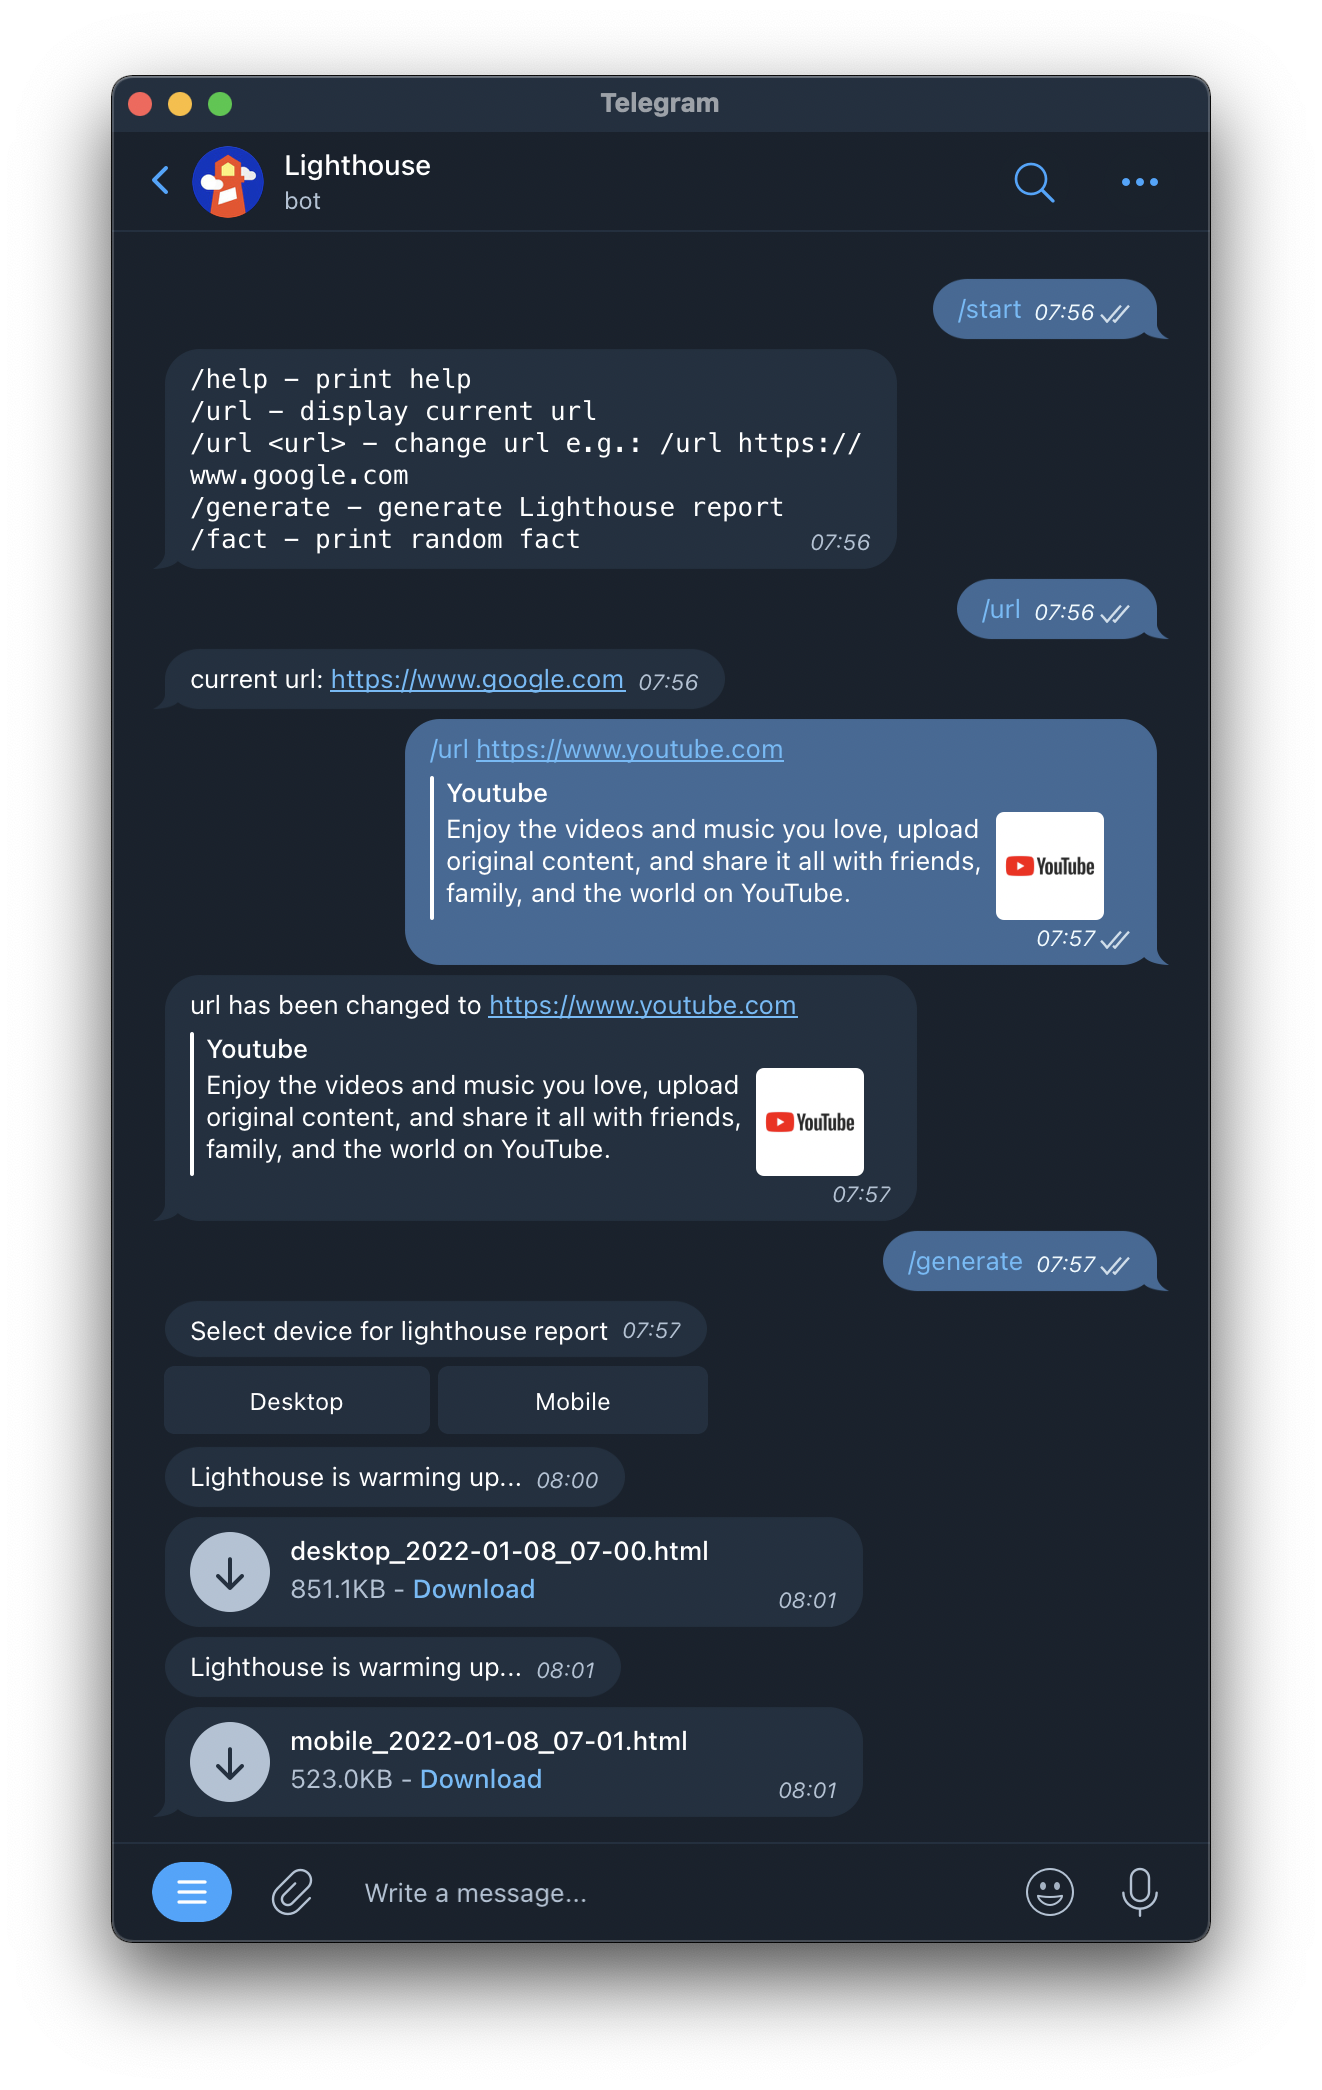
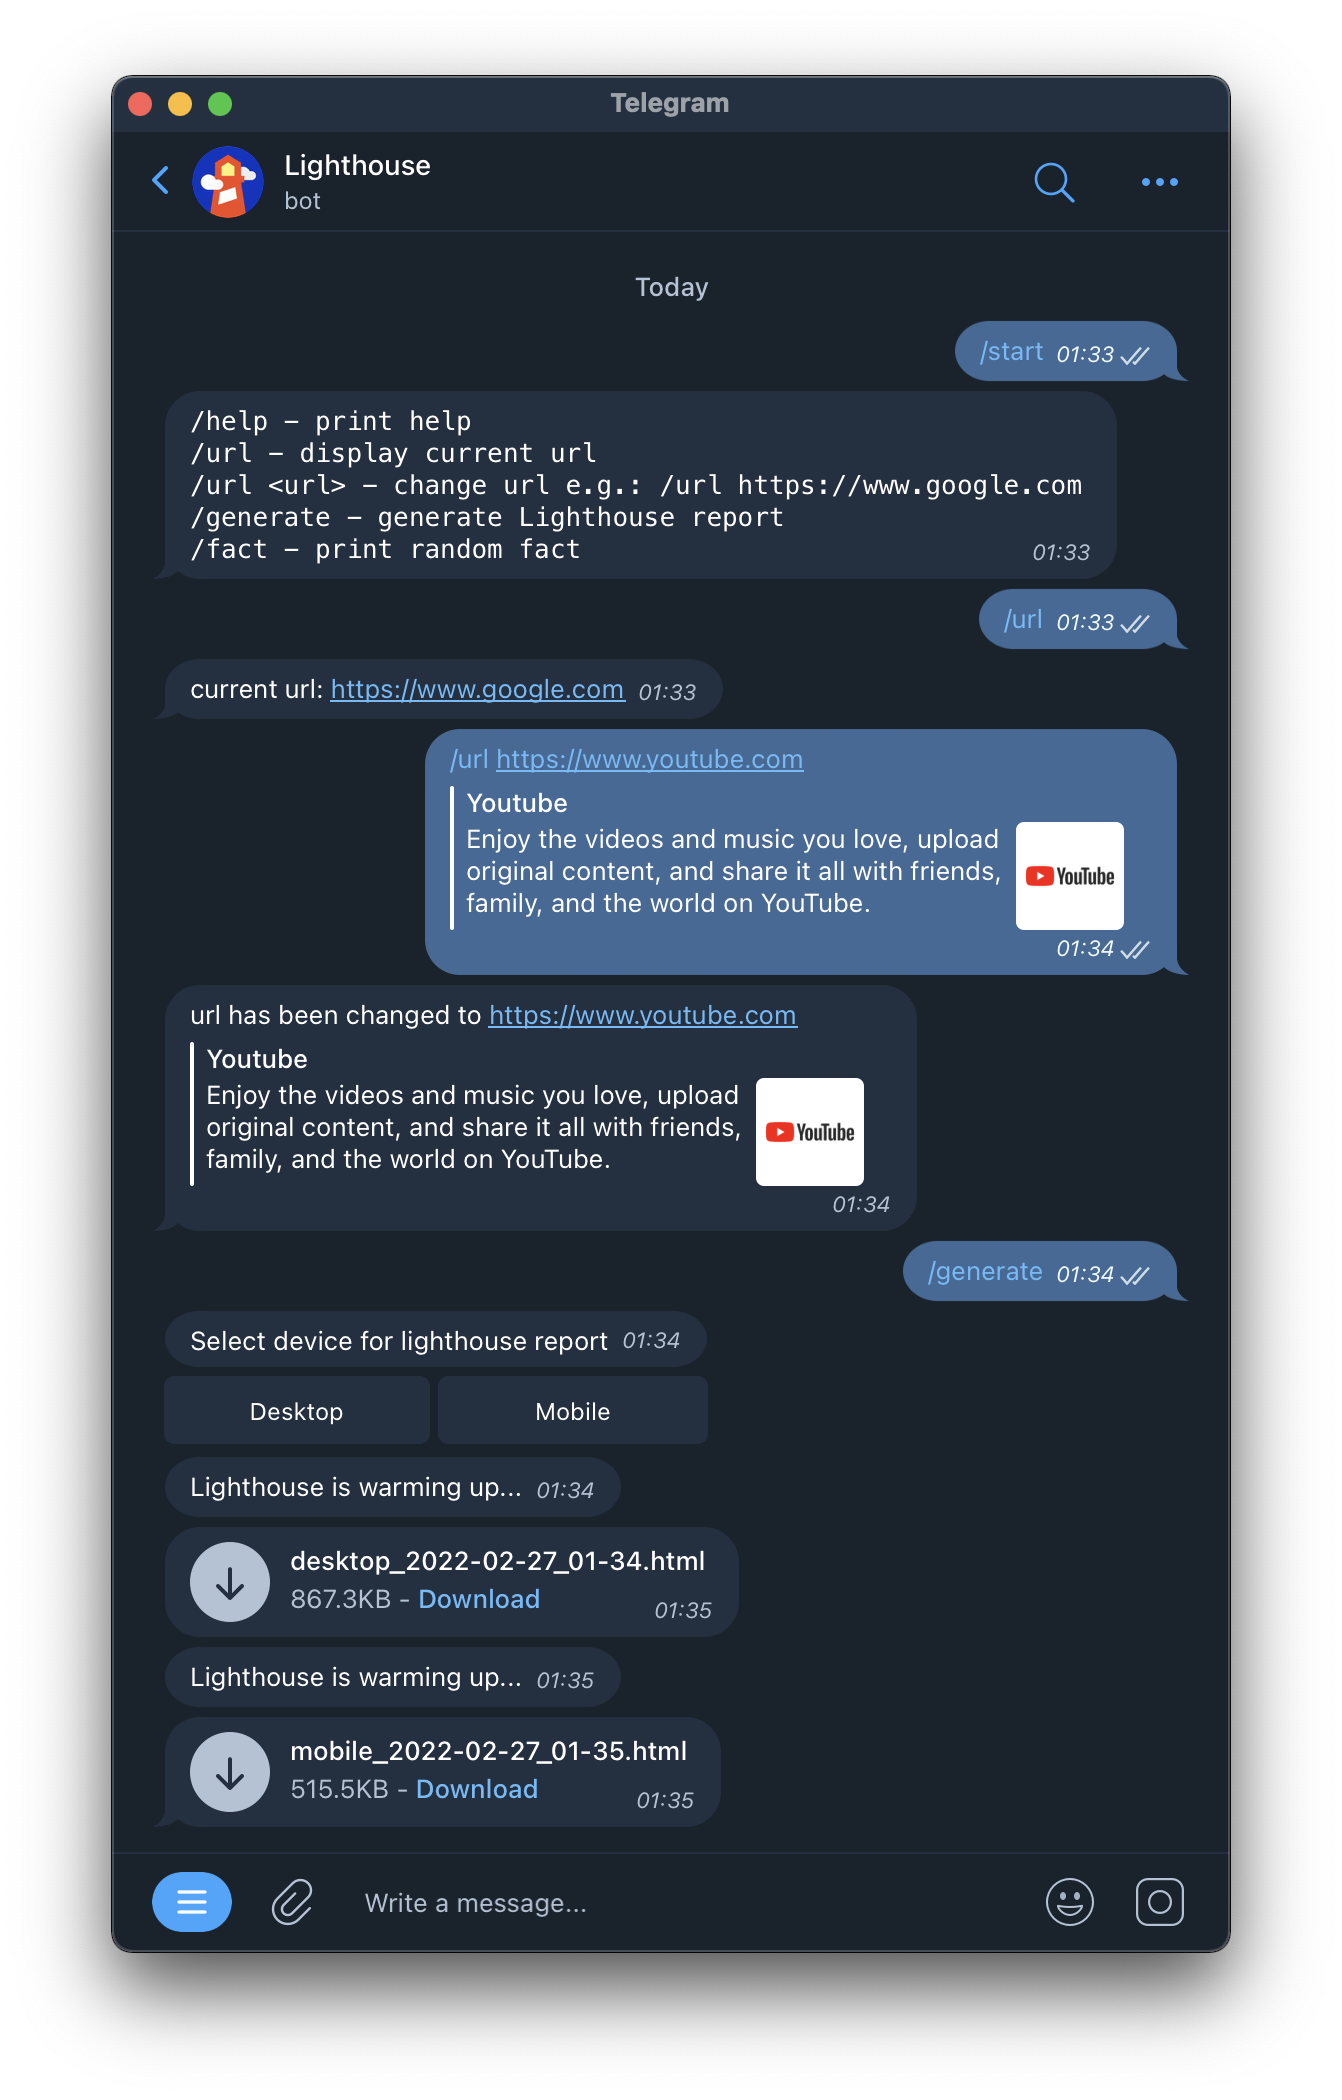
add automatic add new user and whitelist

diff --git a/index.js b/index.js
@@ -10,34 +10,39 @@ const WikiFakt = require("wikifakt");
 const puppeteer = require("puppeteer");
 const validUrl = require("valid-url");
 
-let data = fs.readJsonSync("./data.json");
-const bot = new TelegramBot(data.token, { polling: true });
+if (process.env.BOT_TOKEN === undefined)
+  throw new Error("BOT_TOKEN must be provided!");
 
-let chatId, msg, name, usrNr, date;
+const bot = new TelegramBot(process.env.BOT_TOKEN, { polling: true });
 
-bot.on("message", (apiJson) => {
-  chatId = apiJson.chat.id;
-  msg = apiJson.text;
-  name = apiJson.from.first_name;
-  usrNr = getUsrNr();
-  date = getDateTime();
-  console.log(`${date}: ${chatId} ${name}, ${usrNr}, message: '${msg}'`);
-  if (usrNr == -1) {
-    return;
-  }
+const type = { message: "message", callback: "callback" };
+
+const DATA_PATH = "data/data.json",
+  WHITELIST_PATH = "data/whitelist.json";
+
+bot.on("message", (api) => {
+  const {
+    chat: { id: chatId },
+    text: msg,
+    from: { first_name: usrName },
+  } = api;
+  const isValid = UserValid(chatId);
+  log(chatId, msg, usrName, isValid, type.message);
+  if (!isValid) return;
+
   switch (true) {
     case msg == "/help":
     case msg == "/start":
-      onHelporStart();
+      onHelporStart(chatId);
       break;
     case /\/url(.*)/.test(msg):
-      onUrl();
+      onUrl(chatId, msg);
       break;
     case msg == "/generate":
-      onGenerate();
+      onGenerate(chatId);
       break;
     case msg == "/fact":
-      onFact();
+      onFact(chatId);
       break;
     default:
       bot.sendMessage(chatId, "invalid command");
@@ -45,30 +50,83 @@ bot.on("message", (apiJson) => {
   }
 });
 
-bot.on("callback_query", (callbackQuery) => {
-  chatId = callbackQuery.from.id;
-  msg = callbackQuery.data;
-  name = callbackQuery.from.first_name;
-  usrNr = getUsrNr();
-  date = getDateTime();
-  console.log(
-    `${date}: ${chatId} ${name}, ${usrNr}, callback message: '${msg}'`
-  );
+bot.on("callback_query", (api) => {
+  const {
+    from: { id: chatId, first_name: usrName },
+    data: msg,
+  } = api;
+  const isValid = UserValid(chatId);
+  log(chatId, msg, usrName, isValid, type.callback);
+  if (!isValid) return;
 
-  if (usrNr == -1) {
-    return;
-  }
   switch (true) {
     case msg == "desktop":
     case msg == "mobile":
-      onDesktopOrMobile();
+      onDesktopOrMobile(chatId, msg);
       break;
   }
 });
 
-// on message functions
+function UserValid(chatId) {
+  try {
+    ({ chatId: whitelistedUsr } = fs.readJsonSync(WHITELIST_PATH));
 
-function onHelporStart() {
+    return whitelistedUsr.includes(chatId) ? true : false;
+  } catch {
+    console.log(
+      "no whitelist file provided or strucutre incorrect --> accept every user"
+    );
+    return true;
+  }
+}
+
+function log(chatId, msg, usrName, isValid, type) {
+  const date = getDateTime();
+  console.log(
+    `${date} -> chat id: ${chatId}, name: ${usrName}, valid: ${isValid} ${type}: ${msg}`
+  );
+}
+
+function getUsrNr(chatId) {
+  let data;
+  try {
+    data = fs.readJSONSync(DATA_PATH);
+
+    for (let i = 0; i < data.users.length; i++) {
+      if (data.users[i].chatId == chatId) return i;
+    }
+    return createNewUsr(chatId, data);
+  } catch {
+    data = { users: [] };
+    return createNewUsr(chatId, data);
+  }
+}
+
+function createNewUsr(chatId, data) {
+  const newUsr = { chatId: chatId, url: "https://www.google.com" };
+  data.users.push(newUsr);
+  fs.outputJSONSync(DATA_PATH, data, { spaces: 2 });
+  return --data.users.length;
+}
+
+function getUrl(chatId) {
+  const usrNr = getUsrNr(chatId);
+  const data = fs.readJSONSync(DATA_PATH);
+  return data.users[usrNr].url;
+}
+
+function setUrl(chatId, url) {
+  const usrNr = getUsrNr(chatId);
+  const data = fs.readJSONSync(DATA_PATH);
+  data.users[usrNr].url = url;
+  fs.outputJSONSync(DATA_PATH, data, { spaces: 2 });
+}
+
+function getDateTime() {
+  return dateFormater.format(new Date(), "YYYY-MM-DD_HH-mm");
+}
+
+function onHelporStart(chatId) {
   bot.sendMessage(
     chatId,
     "<code>/help - print help \n/url - display current url \n/url &#60url&#62 - change url e.g.: /url https://www.google.com" +
@@ -77,21 +135,19 @@ function onHelporStart() {
   );
 }
 
-function onUrl() {
+function onUrl(chatId, msg) {
   const url = msg.split(" ");
-  data = fs.readJsonSync("./data.json");
   if (url.length == 1) {
-    bot.sendMessage(chatId, "current url: " + data.user[usrNr].url);
+    bot.sendMessage(chatId, "current url: " + getUrl(chatId));
   } else if (url.length == 2 && validUrl.isUri(url[1])) {
-    data.user[usrNr].url = url[1];
-    fs.outputJsonSync("./data.json", data, { spaces: 2 });
+    setUrl(chatId, url[1]);
     bot.sendMessage(chatId, `url has been changed to ${url[1]}`);
   } else {
     bot.sendMessage(chatId, `${url[1]} is an invalid url`);
   }
 }
 
-function onGenerate() {
+function onGenerate(chatId) {
   const opts = {
     reply_markup: {
       inline_keyboard: [
@@ -111,38 +167,19 @@ function onGenerate() {
   bot.sendMessage(chatId, "Select device for lighthouse report ", opts);
 }
 
-function onFact() {
-  WikiFakt.getRandomFact().then((fact) => {
-    bot.sendMessage(chatId, fact);
-  });
+async function onFact(chatId) {
+  const fact = await WikiFakt.getRandomFact();
+  bot.sendMessage(chatId, fact);
 }
 
-// on callback functions
-
-function onDesktopOrMobile() {
+async function onDesktopOrMobile(chatId, msg) {
+  const date = getDateTime();
   const filename = `${msg}_${date}.html`;
-  generateLighthouse(filename).then(() => {
-    sendLighthouseReport(filename);
-  });
+  await generateLighthouse(chatId, msg, filename);
+  sendLighthouseReport(chatId, filename);
 }
 
-//other functions
-
-function getUsrNr() {
-  data = fs.readJsonSync("./data.json");
-  for (let i = 0; i < data.user.length; i++) {
-    if (data.user[i].chatId == chatId) {
-      return i;
-    }
-  }
-  return -1;
-}
-
-function getDateTime() {
-  return dateFormater.format(new Date(), "YYYY-MM-DD_HH-mm");
-}
-
-async function generateLighthouse(filename) {
+async function generateLighthouse(chatId, msg, filename) {
   const config = msg == "desktop" ? configDesktop : configMobile;
   bot.sendMessage(chatId, "Lighthouse is warming up...");
   const browser = await puppeteer.launch({ args: ["--no-sandbox"] });
@@ -151,13 +188,13 @@ async function generateLighthouse(filename) {
     onlyCategories: ["performance", "accessibility", "best-practices", "seo"],
     port: new URL(browser.wsEndpoint()).port,
   };
-  const runnerResult = await lighthouse(data.user[usrNr].url, options, config);
+  const runnerResult = await lighthouse(getUrl(chatId), options, config);
   const reportHtml = runnerResult.report;
   fs.writeFileSync(filename, reportHtml);
   await browser.close();
 }
 
-async function sendLighthouseReport(filename) {
+async function sendLighthouseReport(chatId, filename) {
   await bot.sendDocument(chatId, filename);
   fs.unlinkSync(filename);
 }
